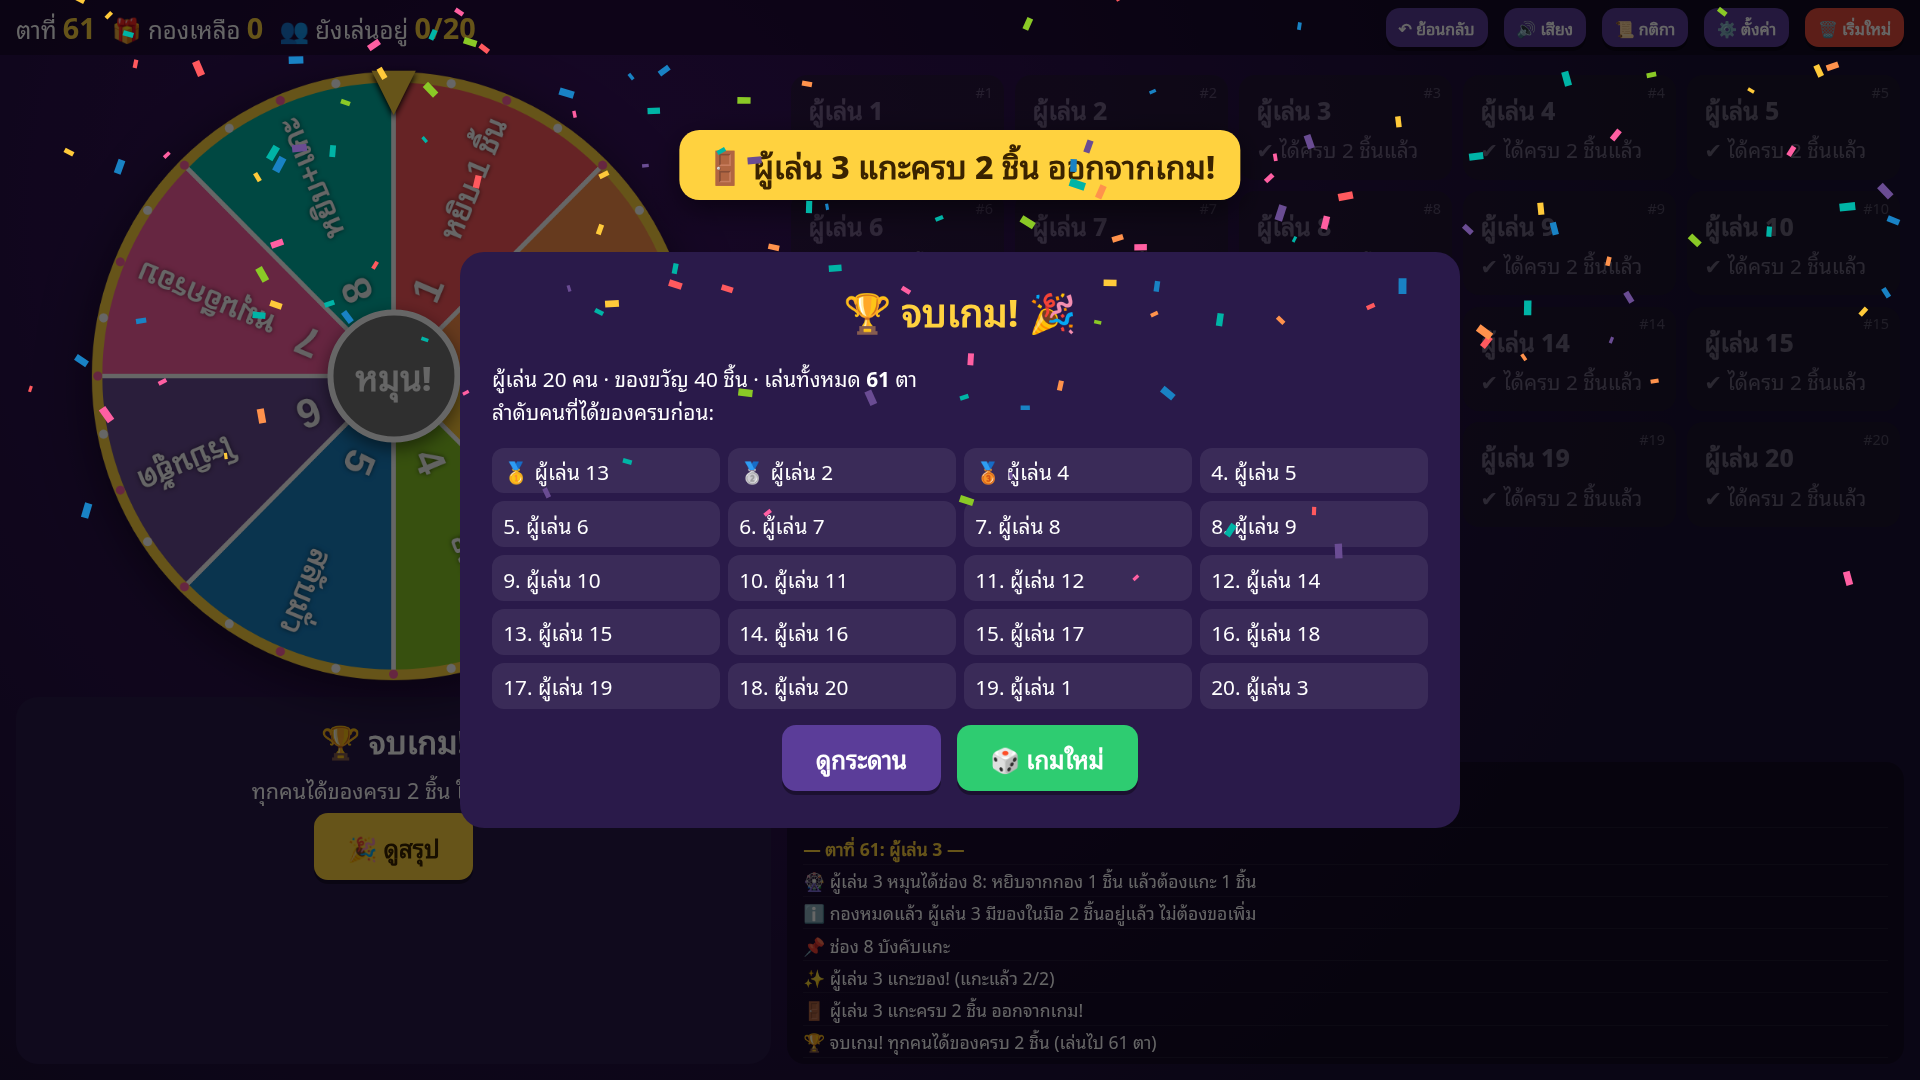
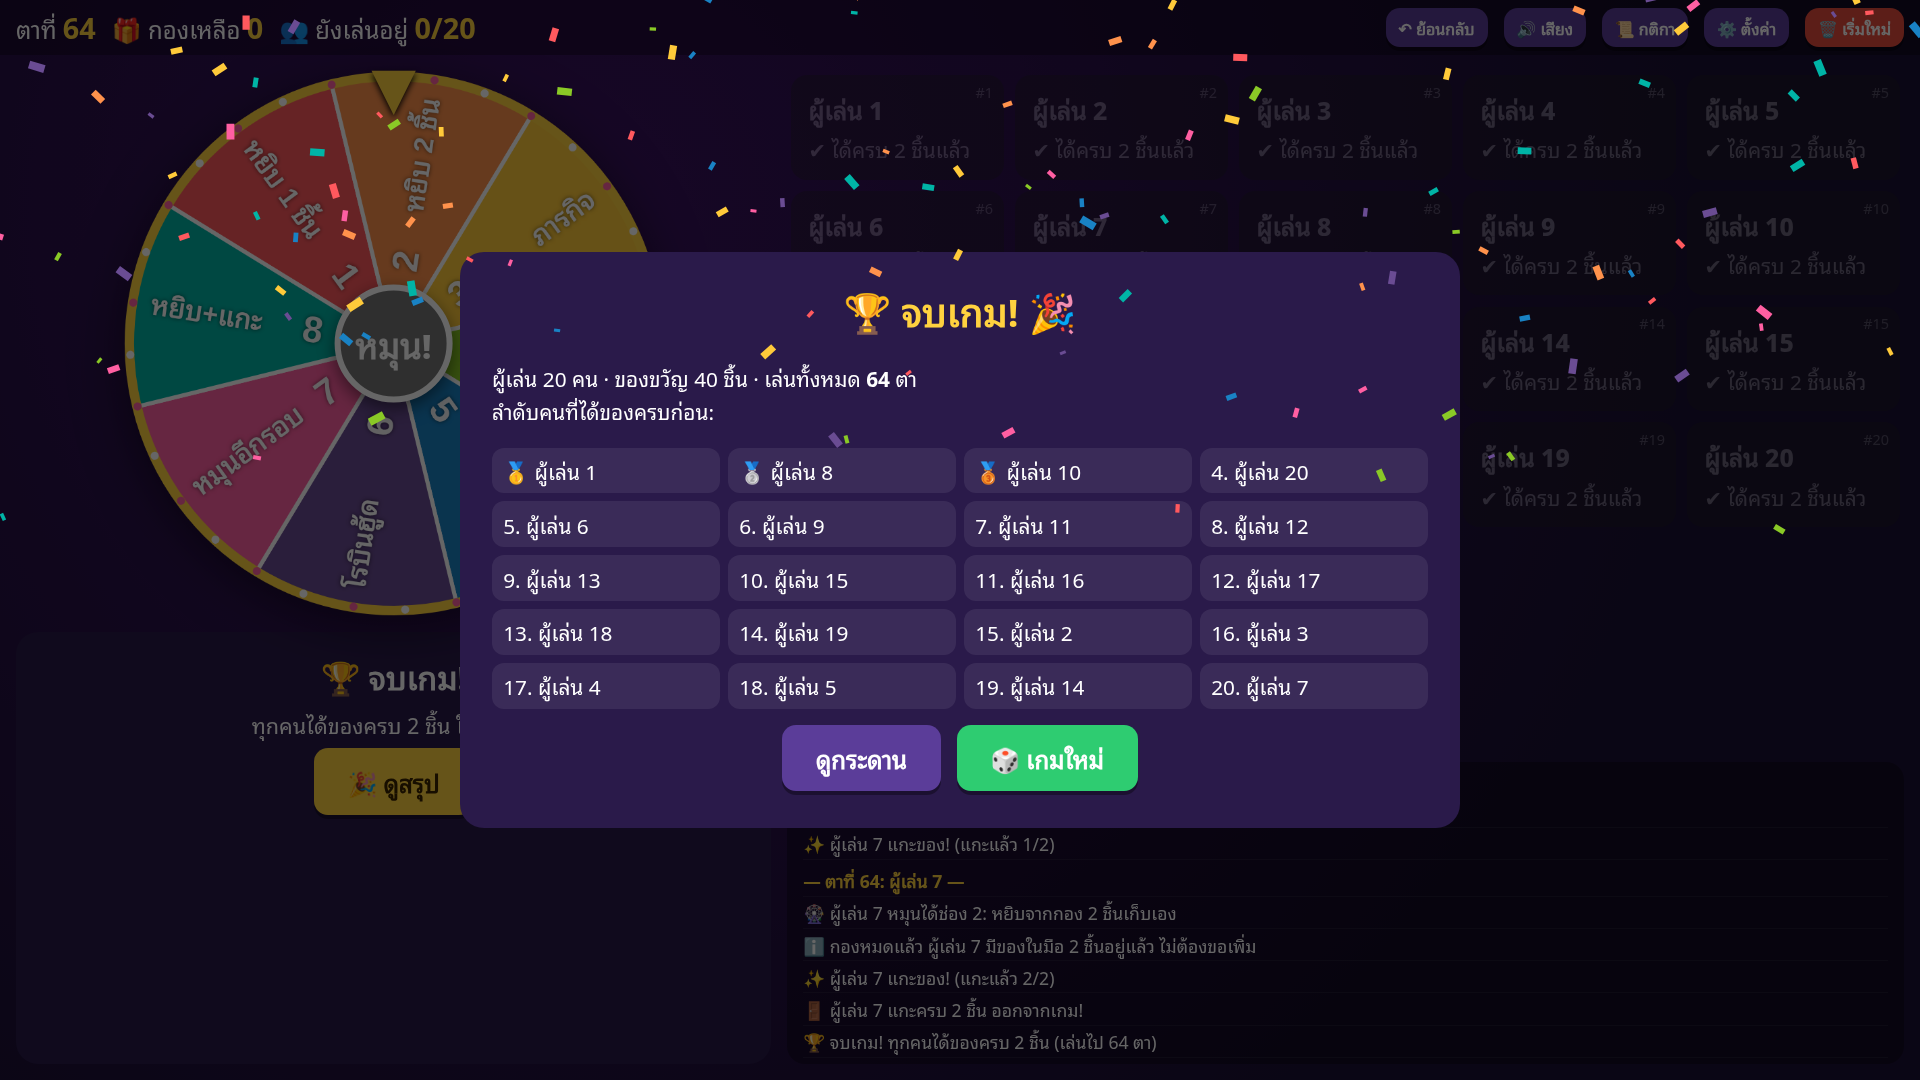
Fix upright wheel labels, lock seg-7 card to spin button/Space, reliable clicks during animations, full/ end-screen toast overlap
- Wheel labels on the left half are rotated 180° so all read upright (main + full/)
- หมุนอีกรอบ card closes only via 'หมุนเลย!' or Space (both spin again); click-outside/Esc ignored; icon no longer overlaps button
- Buttons act on pointerdown so clicks during card flip / timer updates are never lost; tapping the mission card starts the countdown
- full/: timer no longer re-renders the panel every second; panel fits/scrolls at 720p; out-of-game toast hidden when end summary opens
- README and screenshots updated

diff --git a/app.js b/app.js
@@ -81,14 +81,16 @@
       ctx.beginPath(); ctx.moveTo(0, 0); ctx.arc(0, 0, R, a0, a0 + SEGA); ctx.closePath();
       ctx.fillStyle = gr; ctx.fill(); ctx.lineWidth = 8; ctx.strokeStyle = '#fff'; ctx.stroke();
       ctx.save(); ctx.rotate(a0 + SEGA / 2);
+      var mid = a0 + SEGA / 2 + angle, flip = Math.cos(mid) < 0, sx = 1; // ครึ่งซ้าย: หมุนตัวอักษร 180° ให้อ่านได้ตั้งตรง
+      if (flip) { ctx.rotate(Math.PI); sx = -1; }
       ctx.textAlign = 'center'; ctx.textBaseline = 'middle';
       ctx.shadowColor = 'rgba(0,0,0,.45)'; ctx.shadowBlur = 8;
-      ctx.font = '96px ' + FONT; ctx.fillText(s.icon.length > 2 ? '🎁' : s.icon, R * 0.83, 0);
+      ctx.font = '96px ' + FONT; ctx.fillText(s.icon.length > 2 ? '🎁' : s.icon, sx * R * 0.83, 0);
       ctx.shadowBlur = 0;
       var fs = 84; ctx.font = '900 ' + fs + 'px ' + FONT;
       while (ctx.measureText(s.short).width > R * 0.44 && fs > 30) { fs -= 2; ctx.font = '900 ' + fs + 'px ' + FONT; }
       ctx.lineJoin = 'round'; ctx.lineWidth = Math.round(fs / 5); ctx.strokeStyle = 'rgba(30,10,40,.85)';
-      ctx.strokeText(s.short, R * 0.48, 4); ctx.fillStyle = '#fff'; ctx.fillText(s.short, R * 0.48, 4);
+      ctx.strokeText(s.short, sx * R * 0.48, 4); ctx.fillStyle = '#fff'; ctx.fillText(s.short, sx * R * 0.48, 4);
       ctx.restore();
     }
     ctx.beginPath(); ctx.arc(0, 0, R, 0, Math.PI * 2); ctx.lineWidth = 20; ctx.strokeStyle = '#ffd23f'; ctx.stroke();
@@ -121,6 +123,11 @@
     showCard(seg, note, wasExtra);
   }
 
+  // กดปุ่มด้วยเมาส์/นิ้ว: ทำงานทันทีตอน pointerdown (ไม่หายแม้ปุ่มกำลังขยับระหว่างแอนิเมชัน)
+  function onTap(el, fn) {
+    el.addEventListener('pointerdown', function (e) { if (e.button !== 0) return; e.preventDefault(); fn(e); });
+    el.addEventListener('click', function (e) { if (e.detail === 0) fn(e); }); // คลิกจากคีย์บอร์ด
+  }
   /* ---------- การ์ด ---------- */
   var timerId = null, left = 10, mission = 'none', cardView = false; // mission: none | idle | running | done
   var CLOSE_HINT = 'แตะจอ หรือกด Spacebar เพื่อหมุนต่อ';
@@ -130,12 +137,12 @@
     if (mission === 'idle') h = '⏱ กด Spacebar เพื่อเริ่มนับ 10 วิ · ปิดการ์ดได้เมื่อหมดเวลา';
     else if (mission === 'running') h = '⏳ กำลังนับ... ปิดการ์ดได้เมื่อหมดเวลา';
     else if (mission === 'done') h = '⏰ หมดเวลา! แตะจอ หรือกด Spacebar เพื่อปิด';
-    else if (cardOpen === 7 && !cardView) h = 'กด Spacebar เพื่อหมุนอีกรอบ · Esc / แตะข้างนอก = ไม่หมุน';
+    else if (cardOpen === 7 && !cardView) h = '🔄 กดปุ่ม "หมุนเลย!" หรือ Spacebar เพื่อหมุนอีกรอบ';
     else if (cardView) h = 'ดูย้อนหลัง · แตะจอ หรือกด Spacebar เพื่อปิด';
     $('cClose').textContent = h;
     var bt = document.querySelector('[data-act=timer]'); if (bt) bt.disabled = mission === 'running';
   }
-  function canClose() { return mission === 'none' || mission === 'done'; }
+  function canClose() { return (mission === 'none' || mission === 'done') && !(cardOpen === 7 && !cardView); }
   function showCard(seg, note, wasExtra, view) {
     var s = SEGS[seg - 1]; cardOpen = seg; cardView = !!view; stopTimer();
     mission = seg === 3 ? 'idle' : 'none';
@@ -145,6 +152,7 @@
     var ex = $('cExtra'); ex.innerHTML = '';
     if (seg === 3) { ex.innerHTML = '<div class="timer" id="cTimer">10</div><button class="bigbtn" data-act="timer">⏱ เริ่ม 10 วิ</button>'; }
     if (seg === 7 && !view) { ex.innerHTML = '<button class="bigbtn" data-act="again">🔄 หมุนเลย!</button>'; }
+    document.querySelector('.cl').classList.toggle('has-extra', !!ex.innerHTML);
     setHint();
     var inner = card.querySelector('.card-inner'); inner.style.animation = 'none'; void inner.offsetWidth; inner.style.animation = '';
     $('overlay').classList.remove('hidden'); fit();
@@ -170,9 +178,10 @@
     }, 1000);
   }
   function spinAgain() { extraSpin = true; closeCard(); spin(); }
-  $('overlay').addEventListener('click', function (e) {
+  onTap($('overlay'), function (e) {
     var b = e.target.closest('[data-act]');
-    if (b) { e.stopPropagation(); if (b.disabled) return; if (b.dataset.act === 'timer') startTimer(); else if (b.dataset.act === 'again') spinAgain(); return; }
+    if (b) { if (b.disabled) return; if (b.dataset.act === 'timer') startTimer(); else if (b.dataset.act === 'again') spinAgain(); return; }
+    if (mission === 'idle' && e.target.closest('.card-inner')) { startTimer(); return; } // แตะการ์ดภารกิจ = เริ่มนับ
     if (!canClose()) { nudge(); return; }
     if (cardOpen === 7) extraSpin = false;
     closeCard();
@@ -183,7 +192,7 @@
   function renderHist() {
     $('hist').innerHTML = history.map(function (n) { var s = SEGS[n - 1]; return '<button class="chip" data-n="' + n + '" style="background:' + s.color + '">' + (s.icon.length > 2 ? '🎁🎁' : s.icon) + ' ' + n + ' ' + s.short + '</button>'; }).join('');
   }
-  $('hist').addEventListener('click', function (e) {
+  onTap($('hist'), function (e) {
     var c = e.target.closest('[data-n]'); if (!c || spinning || cardOpen) return;
     ac(); showCard(+c.dataset.n, '', false, true);
   });
@@ -197,13 +206,13 @@
     if (!(d.fullscreenElement || d.webkitFullscreenElement)) (el.requestFullscreen || el.webkitRequestFullscreen).call(el);
     else (d.exitFullscreen || d.webkitExitFullscreen).call(d);
   });
-  $('btnSpin').addEventListener('click', spin);
+  onTap($('btnSpin'), function () { if (!cardOpen) spin(); });
   document.addEventListener('keydown', function (e) {
     if (e.code === 'Space' || e.code === 'Enter') {
       e.preventDefault(); if (e.repeat || spinning) return;
       if (cardOpen && mission === 'idle') startTimer();          // ภารกิจ: Space = เริ่มนับ
+      else if (cardOpen === 7 && !cardView) spinAgain();          // หมุนอีกรอบ: Space = หมุนเลย
       else if (cardOpen && !canClose()) nudge();                  // กำลังนับ: ปิดไม่ได้
-      else if (cardOpen === 7 && !cardView) spinAgain();
       else if (cardOpen) closeCard();
       else spin();
     } else if (e.code === 'Escape' && cardOpen) {
@@ -228,5 +237,5 @@
   }
 
   setMute(); renderHist(); drawWheel();
-  window.__wheel = { showCard: showCard, spin: spin, _result: function (s, x) { extraSpin = !!x; result(s); }, get open() { return cardOpen; }, get mission() { return mission; } };
+  window.__wheel = { showCard: showCard, spin: spin, _result: function (s, x) { extraSpin = !!x; result(s); }, _close: function () { closeCard(); }, _forceDone: function () { if (mission === 'running') { stopTimer(); mission = 'done'; setHint(); } }, get open() { return cardOpen; }, get mission() { return mission; } };
 })();

diff --git a/full/app.js b/full/app.js
@@ -60,14 +60,16 @@
       wctx.beginPath(); wctx.moveTo(0, 0); wctx.arc(0, 0, R, a0, a0 + seg); wctx.closePath();
       wctx.fillStyle = COLORS[k]; wctx.fill(); wctx.lineWidth = 6; wctx.strokeStyle = '#fff'; wctx.stroke();
       wctx.save(); wctx.rotate(a0 + seg / 2);
-      wctx.textAlign = 'right'; wctx.textBaseline = 'middle'; wctx.fillStyle = '#fff';
+      var flip = Math.cos(a0 + seg / 2 + angle) < 0, sx = 1; // ครึ่งซ้าย: หมุนตัวอักษร 180° ให้อ่านได้ตั้งตรง
+      if (flip) { wctx.rotate(Math.PI); sx = -1; }
+      wctx.textAlign = flip ? 'left' : 'right'; wctx.textBaseline = 'middle'; wctx.fillStyle = '#fff';
       wctx.shadowColor = 'rgba(0,0,0,.6)'; wctx.shadowBlur = 6;
       var parts = LABELS[k].split(' '), num = parts.shift(), lab = parts.join(' '), fs = 40;
       wctx.font = 'bold ' + fs + 'px "Sukhumvit Set","Thonburi","Leelawadee UI","Noto Sans Thai",sans-serif';
       while (wctx.measureText(lab).width > R - 180 && fs > 20) { fs -= 2; wctx.font = 'bold ' + fs + 'px "Sukhumvit Set","Thonburi","Leelawadee UI","Noto Sans Thai",sans-serif'; }
-      wctx.fillText(lab, R - 28, 0);
+      wctx.fillText(lab, sx * (R - 28), 0);
       wctx.font = 'bold 54px sans-serif'; wctx.fillStyle = 'rgba(255,255,255,.95)';
-      wctx.textAlign = 'center'; wctx.fillText(num, 122, 0);
+      wctx.textAlign = 'center'; wctx.fillText(num, sx * 122, 0);
       wctx.restore();
     }
     wctx.beginPath(); wctx.arc(0, 0, R, 0, Math.PI * 2); wctx.lineWidth = 14; wctx.strokeStyle = '#ffd23f'; wctx.stroke();
@@ -130,7 +132,8 @@
       timeLeft--;
       if (timeLeft <= 0) { stopTimer(); timeLeft = 0; SFX.buzzer(); toast('⏰ หมดเวลา!', 1500); }
       else SFX.count(timeLeft <= 3);
-      renderPanel();
+      var tEl = document.querySelector('#panel .timer'); // อัปเดตเฉพาะตัวเลข ไม่สร้างปุ่มใหม่ (กันคลิกหาย)
+      if (tEl) { tEl.textContent = timeLeft; tEl.classList.toggle('low', timeLeft <= 3); }
     }, 1000);
   }
   function stopTimer() { if (timerId) clearInterval(timerId); timerId = null; }
@@ -237,7 +240,12 @@
       SFX.tick(); renderBoard(); renderPanel();
     }
   }
-  $('panel').addEventListener('click', function (e) {
+  // กดด้วยเมาส์/นิ้ว: ทำงานตอน pointerdown ทันที (คลิกไม่หายแม้หน้าจอกำลังอัปเดต) · คลิกจากคีย์บอร์ดยังใช้ได้
+  function onTap(el, fn) {
+    el.addEventListener('pointerdown', function (e) { if (e.button !== 0) return; e.preventDefault(); fn(e); });
+    el.addEventListener('click', function (e) { if (e.detail === 0) fn(e); });
+  }
+  onTap($('panel'), function (e) {
     var b = e.target.closest('button'); if (!b || b.disabled) return;
     if (b.dataset.t !== undefined) return pickTarget(+b.dataset.t);
     var a = b.dataset.a;
@@ -247,8 +255,8 @@
     else if (a === 'timer') { startTimer(); renderPanel(); }
     else if (a === 'showend') showEnd();
   });
-  $('board').addEventListener('click', function (e) { var c = e.target.closest('.pcard'); if (c) pickTarget(+c.dataset.p); });
-  $('btnSpin').addEventListener('click', doSpin);
+  onTap($('board'), function (e) { var c = e.target.closest('.pcard'); if (c) pickTarget(+c.dataset.p); });
+  onTap($('btnSpin'), function () { if (!$('btnSpin').disabled) doSpin(); });
   $('btnUndo').addEventListener('click', undo);
   $('btnMute').addEventListener('click', function () { muted = !muted; save(); render(); });
   document.querySelectorAll('[data-close]').forEach(function (b) { b.addEventListener('click', function () { b.closest('.modal').classList.add('hidden'); }); });
@@ -311,6 +319,7 @@
     var s = state;
     $('endSummary').innerHTML = 'ผู้เล่น ' + s.n + ' คน · ของขวัญ ' + s.gifts + ' ชิ้น · เล่นทั้งหมด <b>' + s.turn + '</b> ตา' + (s.leftover ? ' · ของเหลือ ' + s.leftover + ' ชิ้น' : '') + '<br>ลำดับคนที่ได้ของครบก่อน:';
     $('endList').innerHTML = s.outOrder.map(function (i, k) { return '<div>' + (k === 0 ? '🥇' : k === 1 ? '🥈' : k === 2 ? '🥉' : (k + 1) + '.') + ' ' + name(i) + '</div>'; }).join('');
+    clearTimeout(toastT); $('toast').classList.add('hidden'); // ไม่ให้ป้าย "ออกจากเกม" ทับหัวสรุป
     $('endModal').classList.remove('hidden'); confetti();
   }
   function confetti() {

diff --git a/full/style.css b/full/style.css
@@ -32,9 +32,9 @@ textarea{width:100%;font:inherit;font-size:1.2rem;border-radius:14px;border:0;pa
 .topbar{display:flex;align-items:center;gap:1rem;padding:.5rem 1rem;background:rgba(0,0,0,.3)}
 .stat{font-size:1.5rem} .stat b{color:var(--gold);font-size:1.8rem}
 .spacer{flex:1}
-.layout{flex:1;display:grid;grid-template-columns:minmax(380px,40%) 1fr;gap:1rem;padding:1rem;min-height:0}
+.layout{flex:1;display:grid;grid-template-columns:minmax(380px,40%) 1fr;grid-template-rows:minmax(0,1fr);gap:1rem;padding:1rem;min-height:0}
 .left{display:flex;flex-direction:column;align-items:center;min-height:0}
-.wheel-wrap{position:relative;width:min(38vw,56vh);aspect-ratio:1}
+.wheel-wrap{position:relative;width:min(38vw,50vh);aspect-ratio:1;flex:none}
 #wheel{width:100%;height:100%;filter:drop-shadow(0 10px 25px rgba(0,0,0,.5))}
 .pointer{position:absolute;top:-2.2vh;left:50%;transform:translateX(-50%);font-size:min(5vw,7vh);color:var(--gold);z-index:2;text-shadow:0 3px 6px #000;line-height:1}
 .spin-hub{position:absolute;left:50%;top:50%;transform:translate(-50%,-50%);width:22%;aspect-ratio:1;border-radius:50%;border:6px solid #fff;background:radial-gradient(circle,#ff7b54,#e63946);color:#fff;font:inherit;font-weight:800;font-size:min(2.2vw,3.2vh);cursor:pointer;box-shadow:0 6px 18px rgba(0,0,0,.5)}
@@ -79,3 +79,9 @@ textarea{width:100%;font:inherit;font-size:1.2rem;border-radius:14px;border:0;pa
 .end-list div{background:rgba(255,255,255,.08);border-radius:12px;padding:.4rem .7rem}
 .toast{position:fixed;left:50%;top:12%;transform:translateX(-50%);background:var(--gold);color:#3a2300;font-size:2rem;font-weight:800;padding:.6rem 1.6rem;border-radius:20px;z-index:60;box-shadow:0 10px 30px rgba(0,0,0,.5);text-align:center;max-width:90vw}
 #confetti{position:fixed;inset:0;pointer-events:none;z-index:70;width:100vw;height:100vh}
+#endModal:not(.hidden) ~ .toast{display:none!important}
+@media (max-height:820px){
+  .panel{padding:.6rem .8rem}.panel h2{font-size:1.45rem;margin:0 0 .2rem}.panel p{font-size:1.1rem;margin:.2rem 0}
+  .panel .seg-badge{font-size:1.15rem}.timer{font-size:3.2rem}.btn.big{font-size:1.2rem;padding:.45em 1em}
+  .targets{gap:.35rem;margin:.35rem 0}.targets .btn{font-size:1rem}.wheel-wrap{width:min(34vw,46vh)}
+}

diff --git a/style.css b/style.css
@@ -82,3 +82,8 @@ body::before{content:"";position:fixed;inset:0;pointer-events:none;opacity:.35;
 .bigbtn:disabled{opacity:.5;cursor:default}
 #fx{position:fixed;inset:0;width:100vw;height:100vh;pointer-events:none;z-index:30}
 .card-icon.two{font-size:calc(var(--u)*8.5*var(--s))}
+.cl.has-extra .card-icon{font-size:calc(var(--u)*9.5*var(--s));margin-bottom:calc(var(--u)*1.2*var(--s))}
+.cl.has-extra .card-icon.two{font-size:calc(var(--u)*7*var(--s))}
+.cl.has-extra{gap:calc(var(--u)*1.2*var(--s))}
+.bigbtn,.hub,.chip,.tbtn{touch-action:manipulation;-webkit-user-select:none;user-select:none}
+.card-inner{animation-duration:.6s,2s}

diff --git a/README.md b/README.md
@@ -13,7 +13,7 @@
 - กดปุ่ม **หมุน!** กลางวงล้อ หรือกด **Spacebar** (Enter ก็ได้)
 - หยุดแล้วจะขึ้นการ์ดของช่องนั้น แตะที่ไหนก็ได้ หรือกด Spacebar เพื่อปิดการ์ด แล้วหมุนต่อ
 - การ์ด **ภารกิจ**: กด Spacebar (หรือปุ่ม "เริ่ม 10 วิ") เพื่อเริ่มนับถอยหลัง 10 วินาที (มีเสียงนับ + เสียงหมดเวลา) · การ์ดนี้**ปิดไม่ได้จนกว่าจะหมดเวลา** หมดเวลาแล้วค่อยแตะจอ/กด Spacebar เพื่อปิด
-- การ์ด **หมุนอีกรอบ** มีปุ่ม "หมุนอีกรอบเลย!" (กด Spacebar ก็หมุนต่อทันที) ถ้ารอบพิเศษได้ช่อง 7 อีก จะแสดงเป็นการ์ดช่อง 1 · กด Esc หรือแตะข้างนอกถ้าไม่หมุน
+- การ์ด **หมุนอีกรอบ** ปิดได้ทางเดียวคือกดปุ่ม "หมุนเลย!" หรือ Spacebar (= หมุนรอบพิเศษทันที) แตะข้างนอก/Esc จะไม่ปิด · ถ้ารอบพิเศษได้ช่อง 7 อีก จะแสดงเป็นการ์ดช่อง 1 (การ์ดที่เปิดดูย้อนหลังจากแถบล่างปิดได้ตามปกติ)
 - แถบล่างแสดงผลล่าสุด **กดที่ผลไหนก็เปิดการ์ดนั้นดูอีกครั้งได้** (ดูอย่างเดียว ไม่นับเป็นการหมุนใหม่) · ปุ่ม "ล้าง" เพื่อล้างประวัติ
 - ตัวอักษรปรับขนาดตามจอ (ออกแบบให้อ่านได้จากไกลบนทีวี 16:9) ถ้าข้อความยาวเกินการ์ด ระบบจะย่อให้พอดีอัตโนมัติ
 
